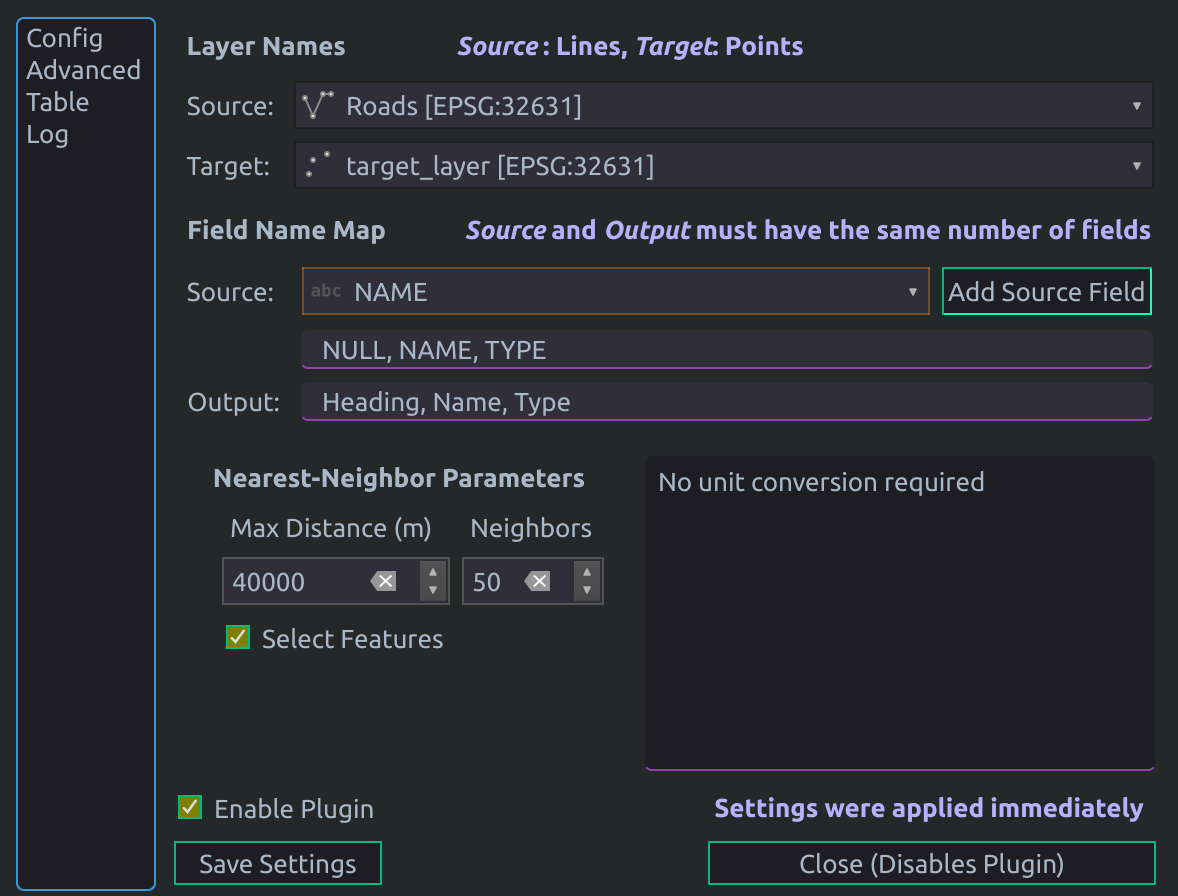
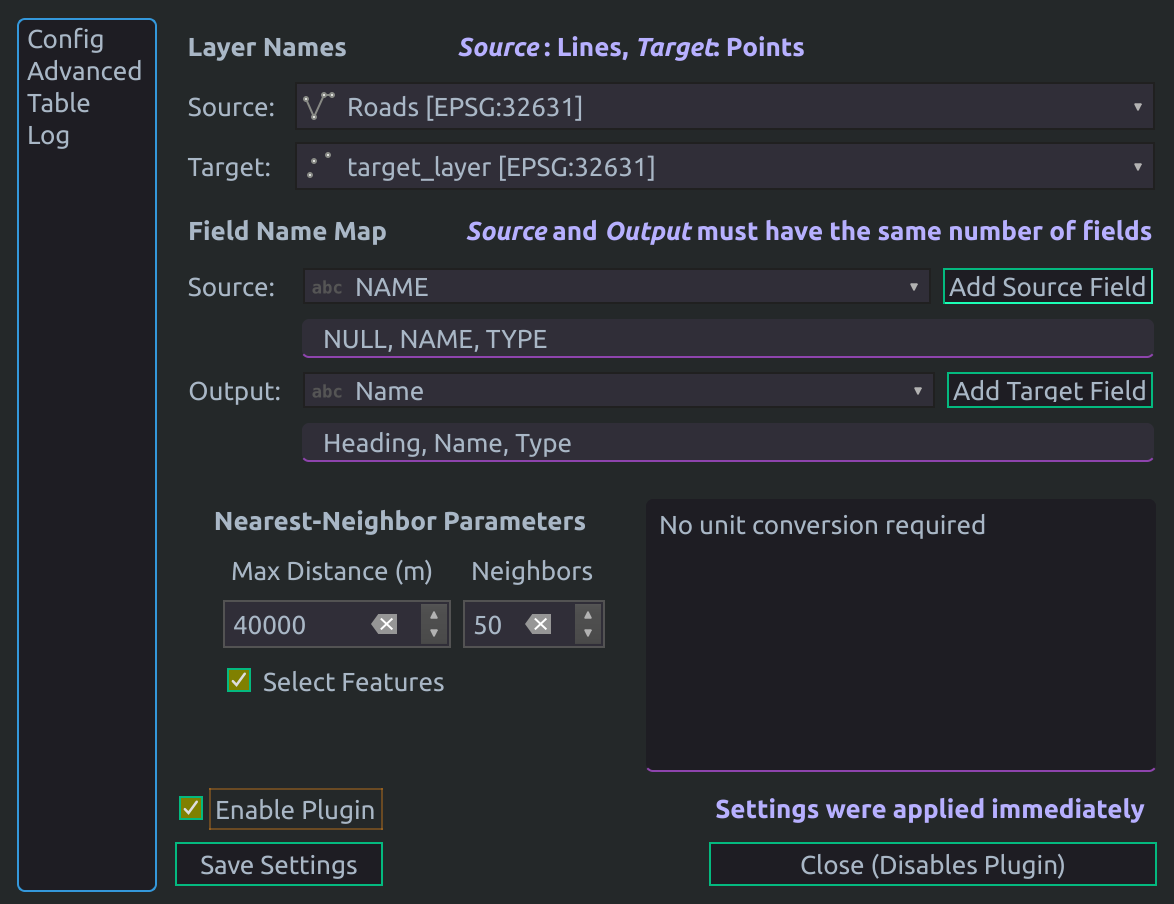
Added combobox for choosing the output fields

diff --git a/src/dialog.py b/src/dialog.py
@@ -114,7 +114,9 @@ class PluginDialog(QDialog, FORM_CLASS):
 
         # Update the source field combobx and connect the add button
         self.sourceLayer.currentIndexChanged.connect(self.update_source_field_box)
-        self.addField.clicked.connect(self.add_field)
+        self.addSourceField.clicked.connect(self.add_source_field)
+        self.targetLayer.currentIndexChanged.connect(self.update_target_field_box)
+        self.addTargetField.clicked.connect(self.add_target_field)
 
         # Update the custom prep info
         self.fsm.directoryLoaded.connect(self.on_custom_prep_dir_loaded)
@@ -186,6 +188,7 @@ class PluginDialog(QDialog, FORM_CLASS):
                 val = self.tableView.model().item(row, column).text()
                 self.qapp.clipboard().setText(val)
 
+
     def update_source_field_box(self):
         self.sourceFieldBox.clear()
         if self.chk.check_dialog_lyrs_exist(self, warn_nolyr = False):
@@ -194,10 +197,25 @@ class PluginDialog(QDialog, FORM_CLASS):
             if source_lyr:
                 self.sourceFieldBox.setLayer(source_lyr)
 
-    def add_field(self):
+    def add_source_field(self):
         oldtxt = self.sourceFields.text()
         newval = self.sourceFieldBox.currentField()
         self.sourceFields.setText(oldtxt + ', ' + newval)
+
+
+    def update_target_field_box(self):
+        self.targetFieldBox.clear()
+        if self.chk.check_dialog_lyrs_exist(self, warn_nolyr = False):
+            TARGET_LYR_NAME = self.targetLayer.currentLayer().name()
+            target_lyr      = self.chk.check_lyr_valid(TARGET_LYR_NAME)
+            if target_lyr:
+                self.targetFieldBox.setLayer(target_lyr)
+
+    def add_target_field(self):
+        oldtxt = self.outputFields.text()
+        newval = self.targetFieldBox.currentField()
+        self.outputFields.setText(oldtxt + ', ' + newval)
+
 
     def extract_sourcefields(self):
         return [x.strip() for x in self.sourceFields.text().split(',')]

diff --git a/README.md b/README.md
@@ -47,12 +47,13 @@ The plugin directory can be found from the QGIS menu bar:
          - A point from this layer is used to select nearby features in the **Source** layer.
          - Must have a *Point* geometry.
    - **Field Name Map**
-     - Here the **Source** layer fields are mapped to the **Output** layer fields.
+     - Here the **Source** layer fields are mapped to the **Output** table fields.
        - Both are comma-separated lists.
-       - Leading/trailing white space will be stripped out.
+         - Leading/trailing white space will be stripped out.
+       - Values can be selected from the combobox or typed manually.
+         - Note that suggestions for the **Output** fields come from the **Target** layer.
        - The results will populate the [Table](#output-table).
      - Source
-       - Values can be selected from the combobox or typed manually.
        - At least one value must be a field in the **Source** layer.
        - Repeated values are allowed.
        - Values not corresponding to a **Source** field will fill that column of the [Table](#output-table).
